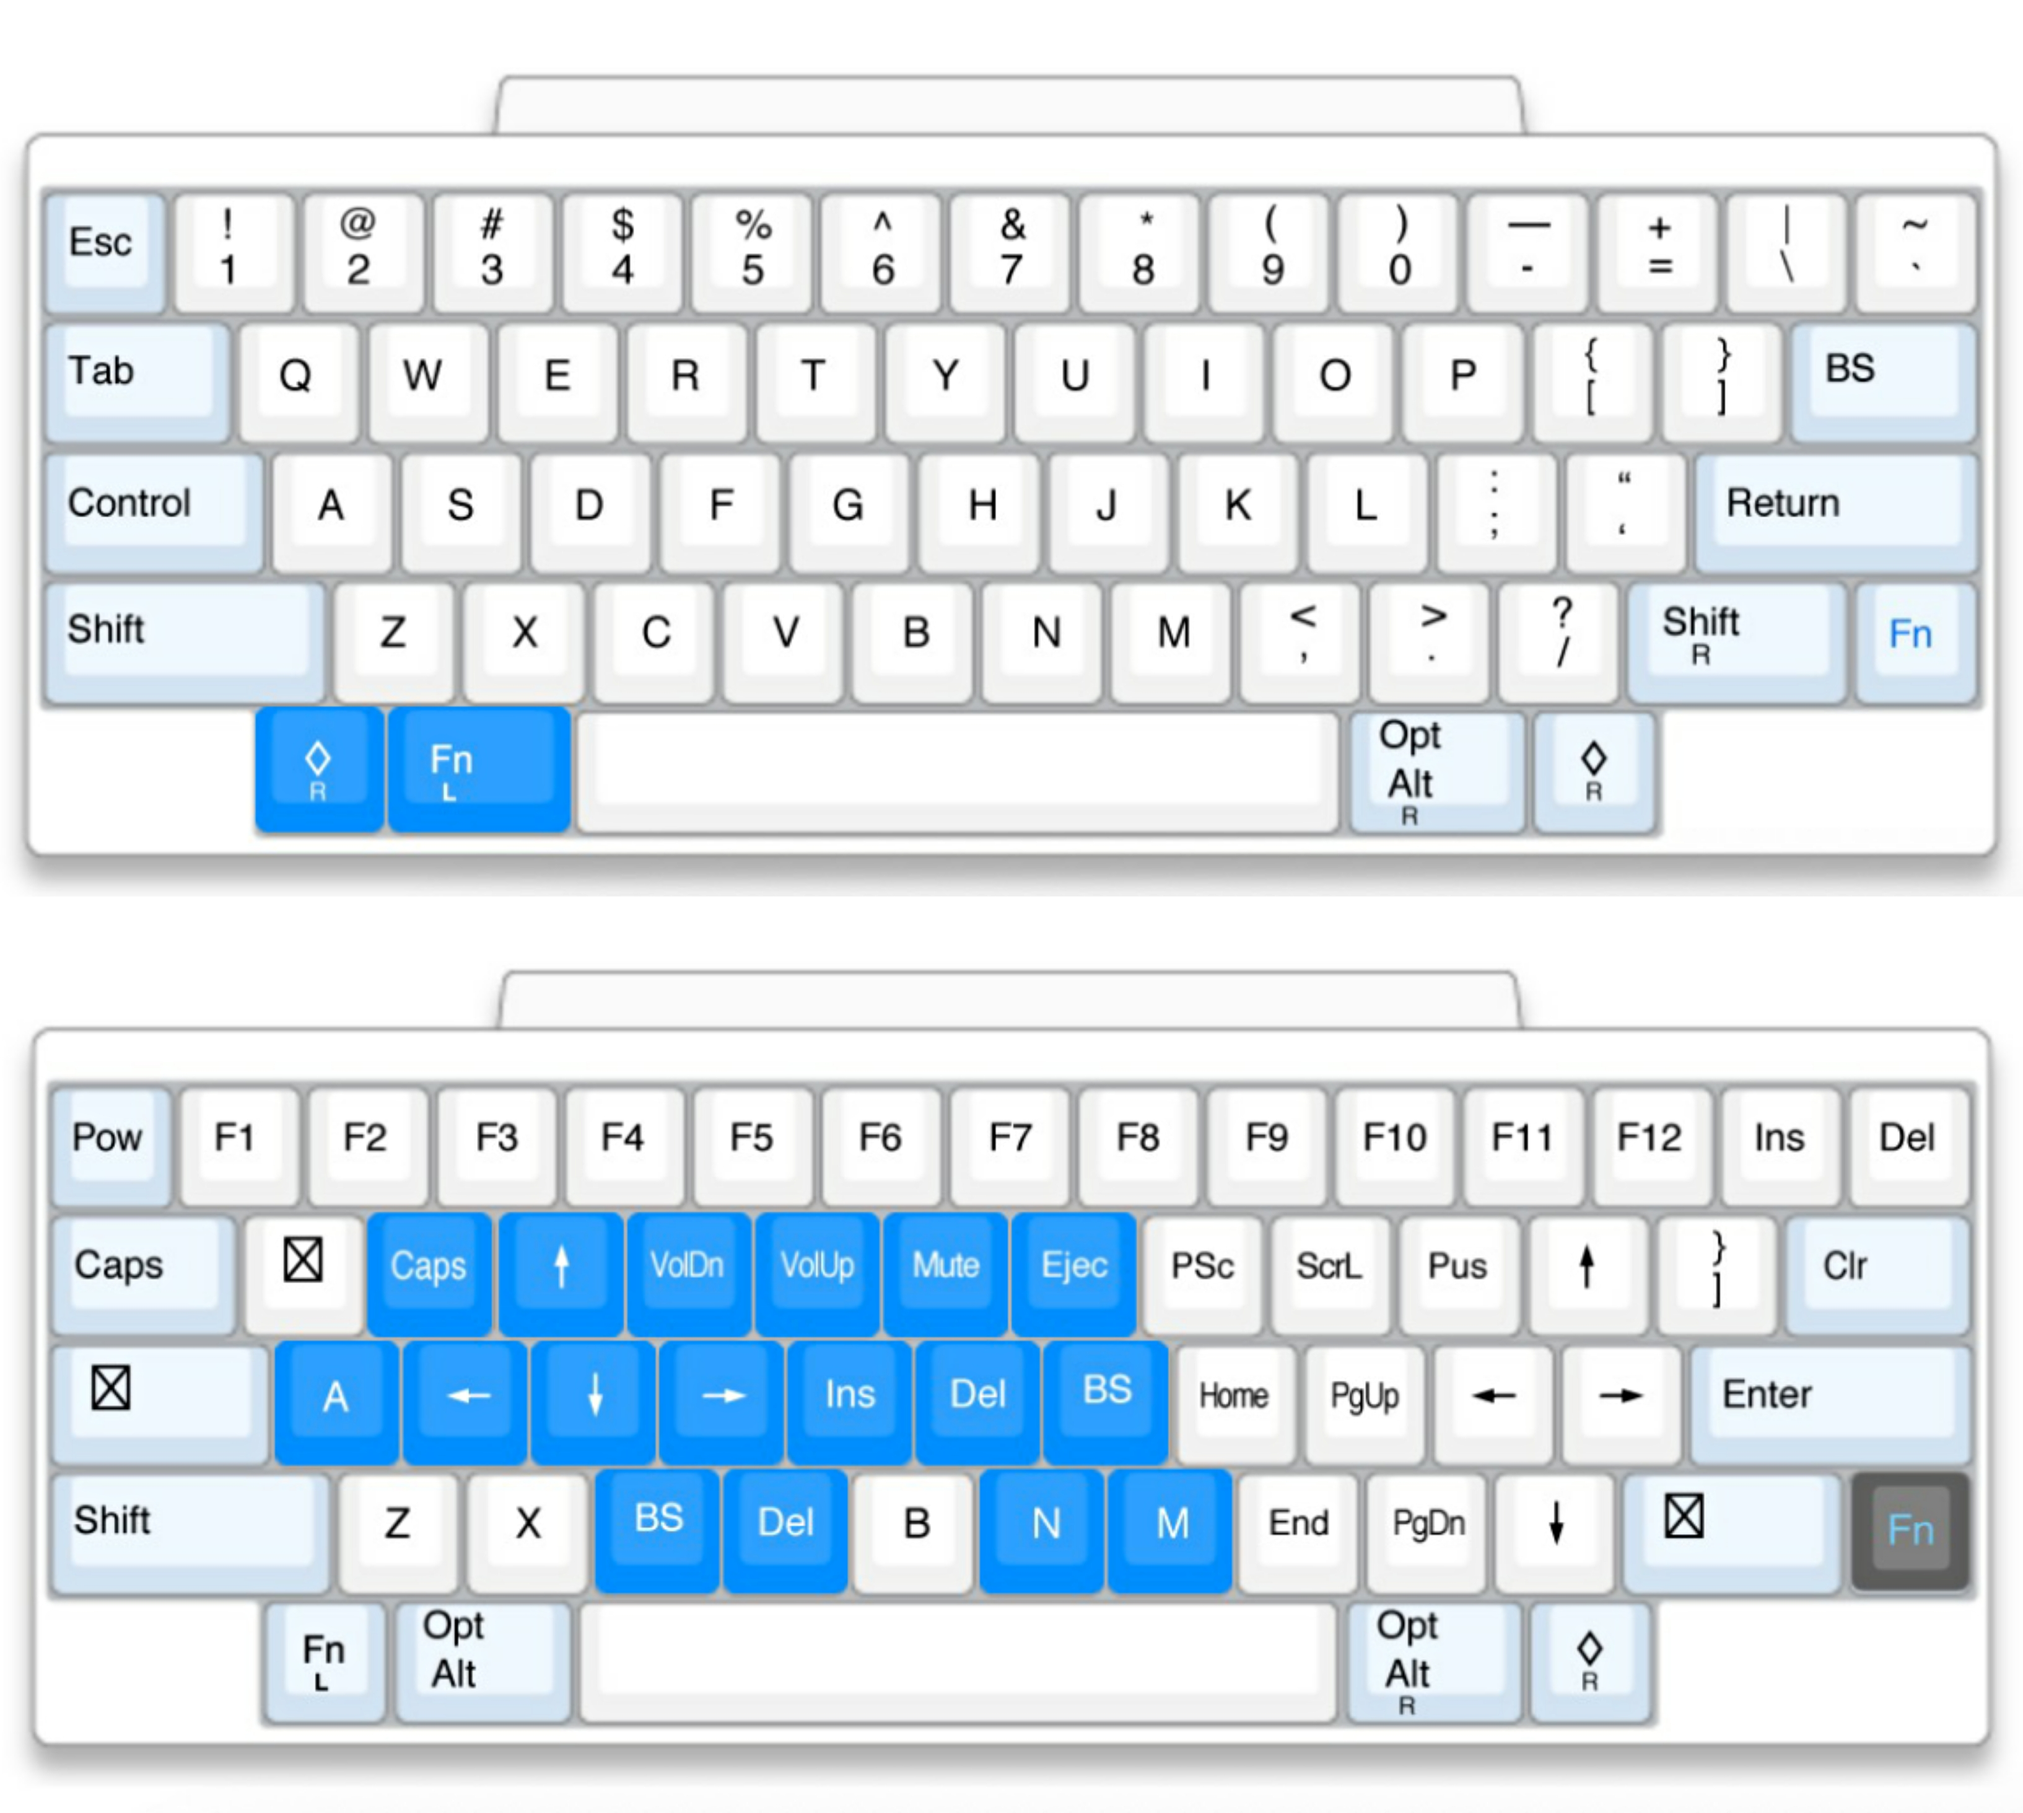
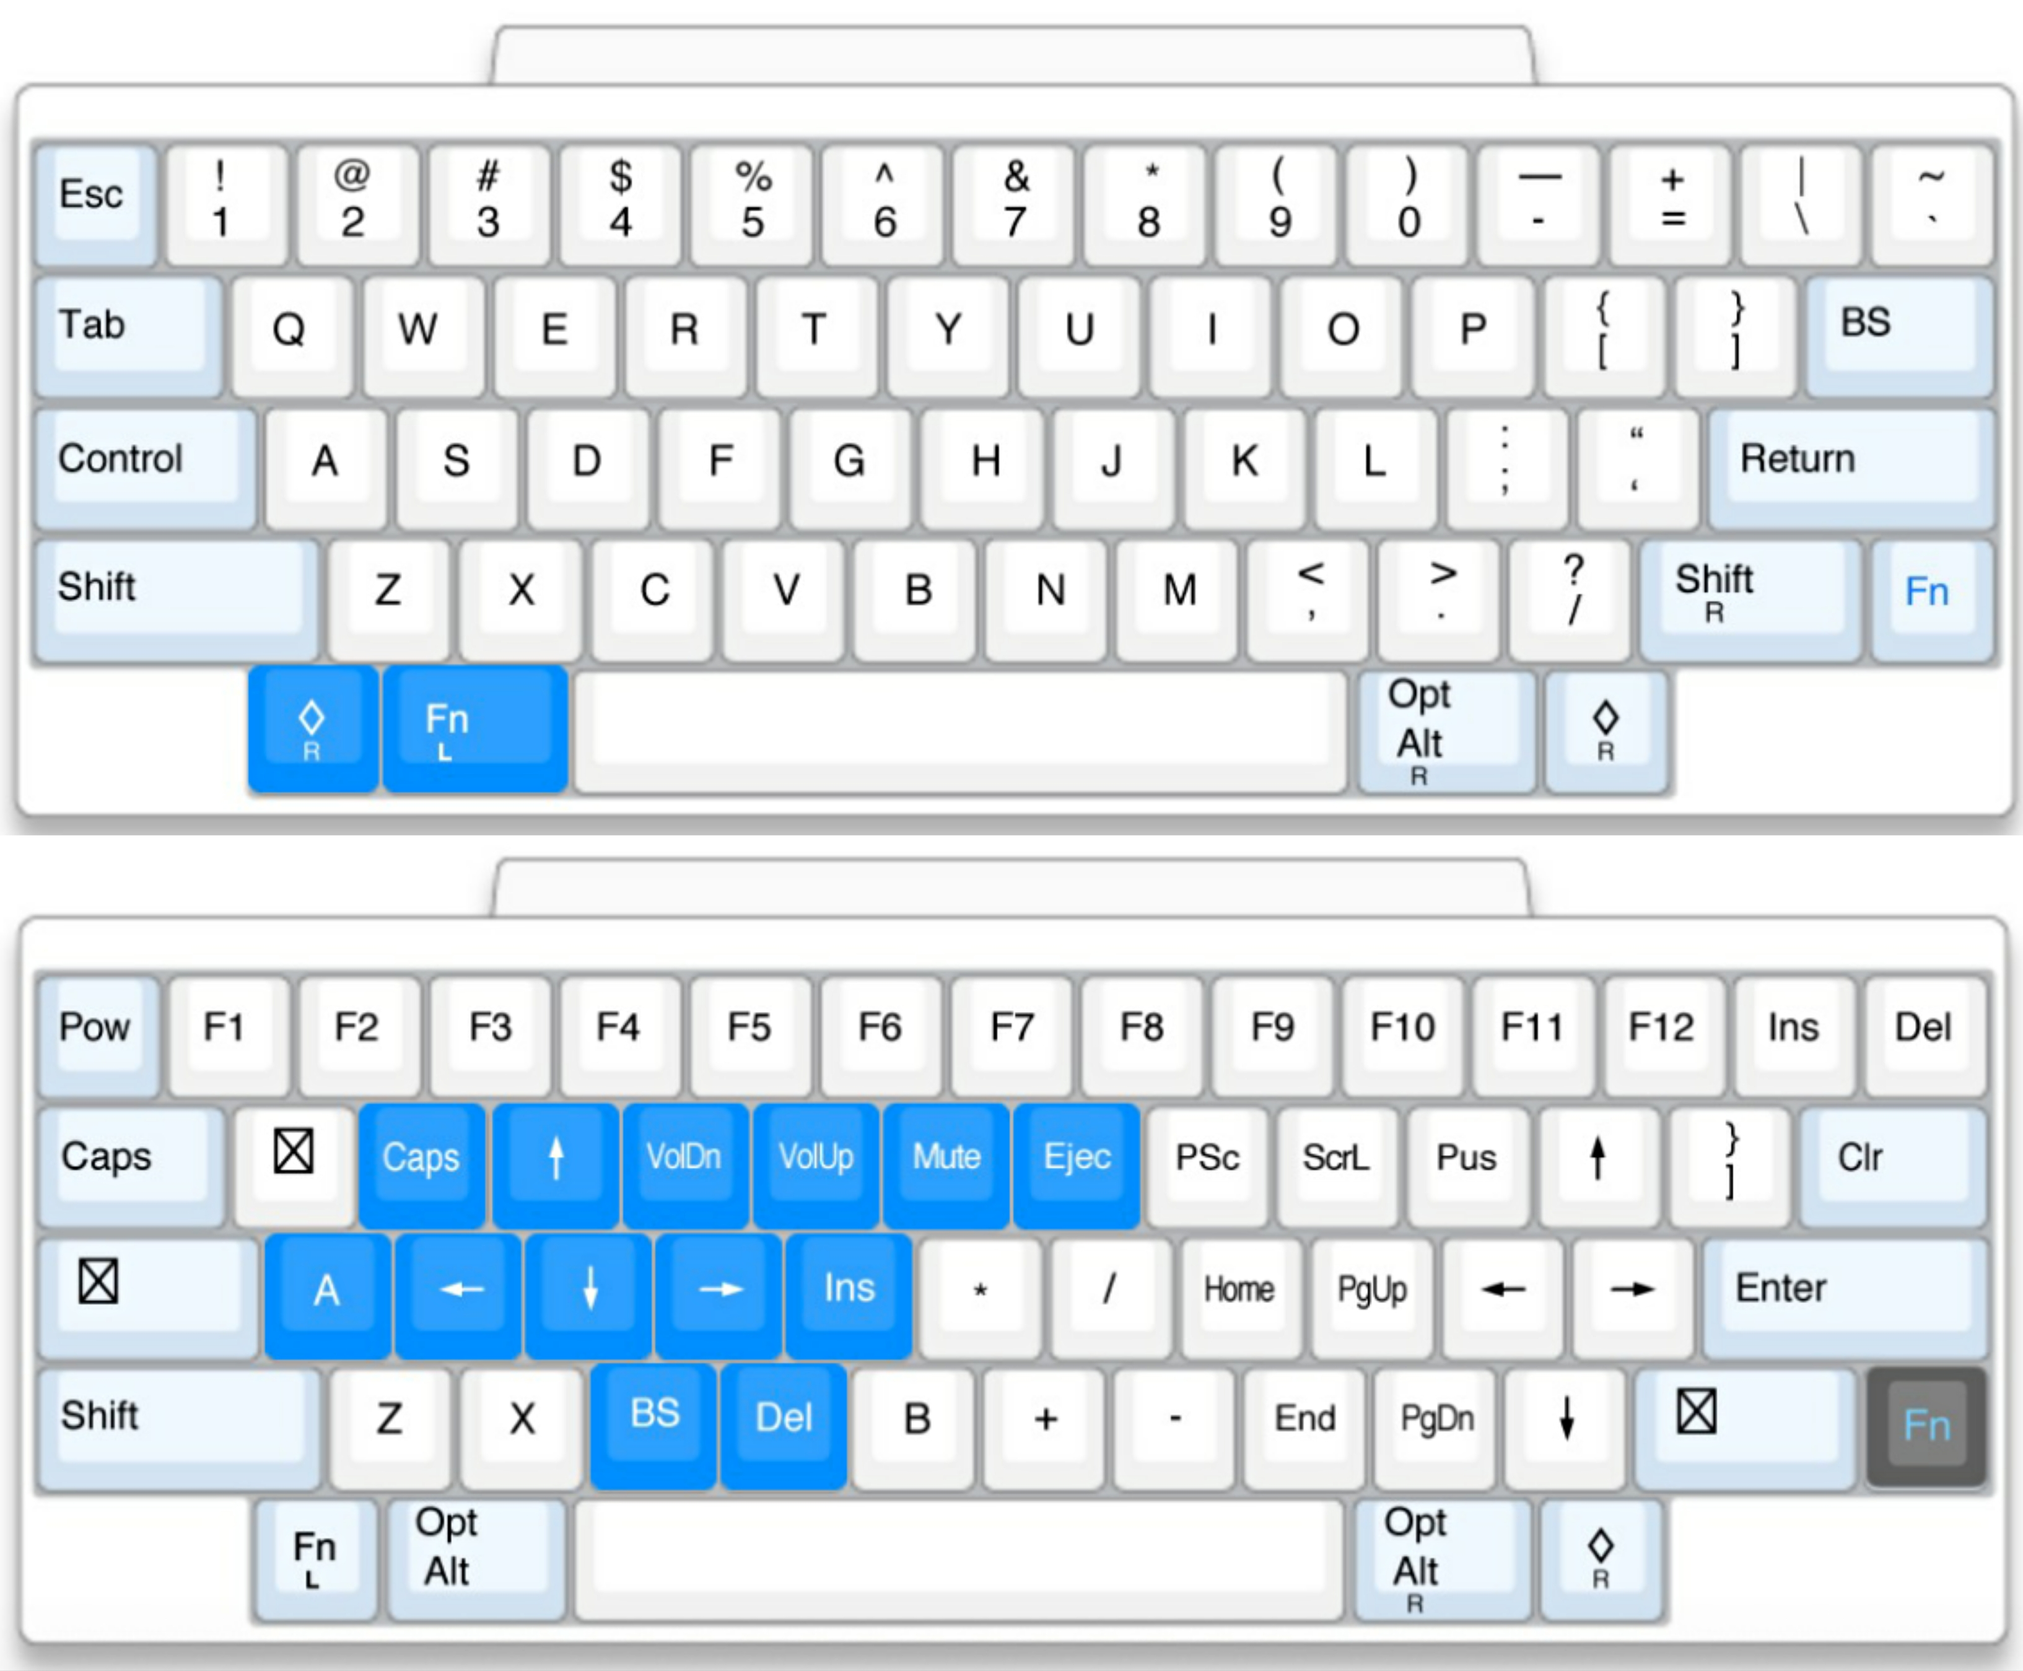
update keyboard info

diff --git a/README.md b/README.md
@@ -55,6 +55,9 @@ sw6 唤醒
 
 3. [为你讲解 HHKB 背后的秘密](https://www.wstx.com/p-24844)
 
+4. [ANSI 104 美国键盘](/pics/006-ANSI_104美国键盘.png)
+> ANSI 104 键盘：打字机区 61 键、功能键区 13 键、指令导航区 13 键，小键盘区 17 键
+
 ## 常识
 ### 中国邻国
 > ![中国邻国](/pics/001_chine_neighbore.png)
